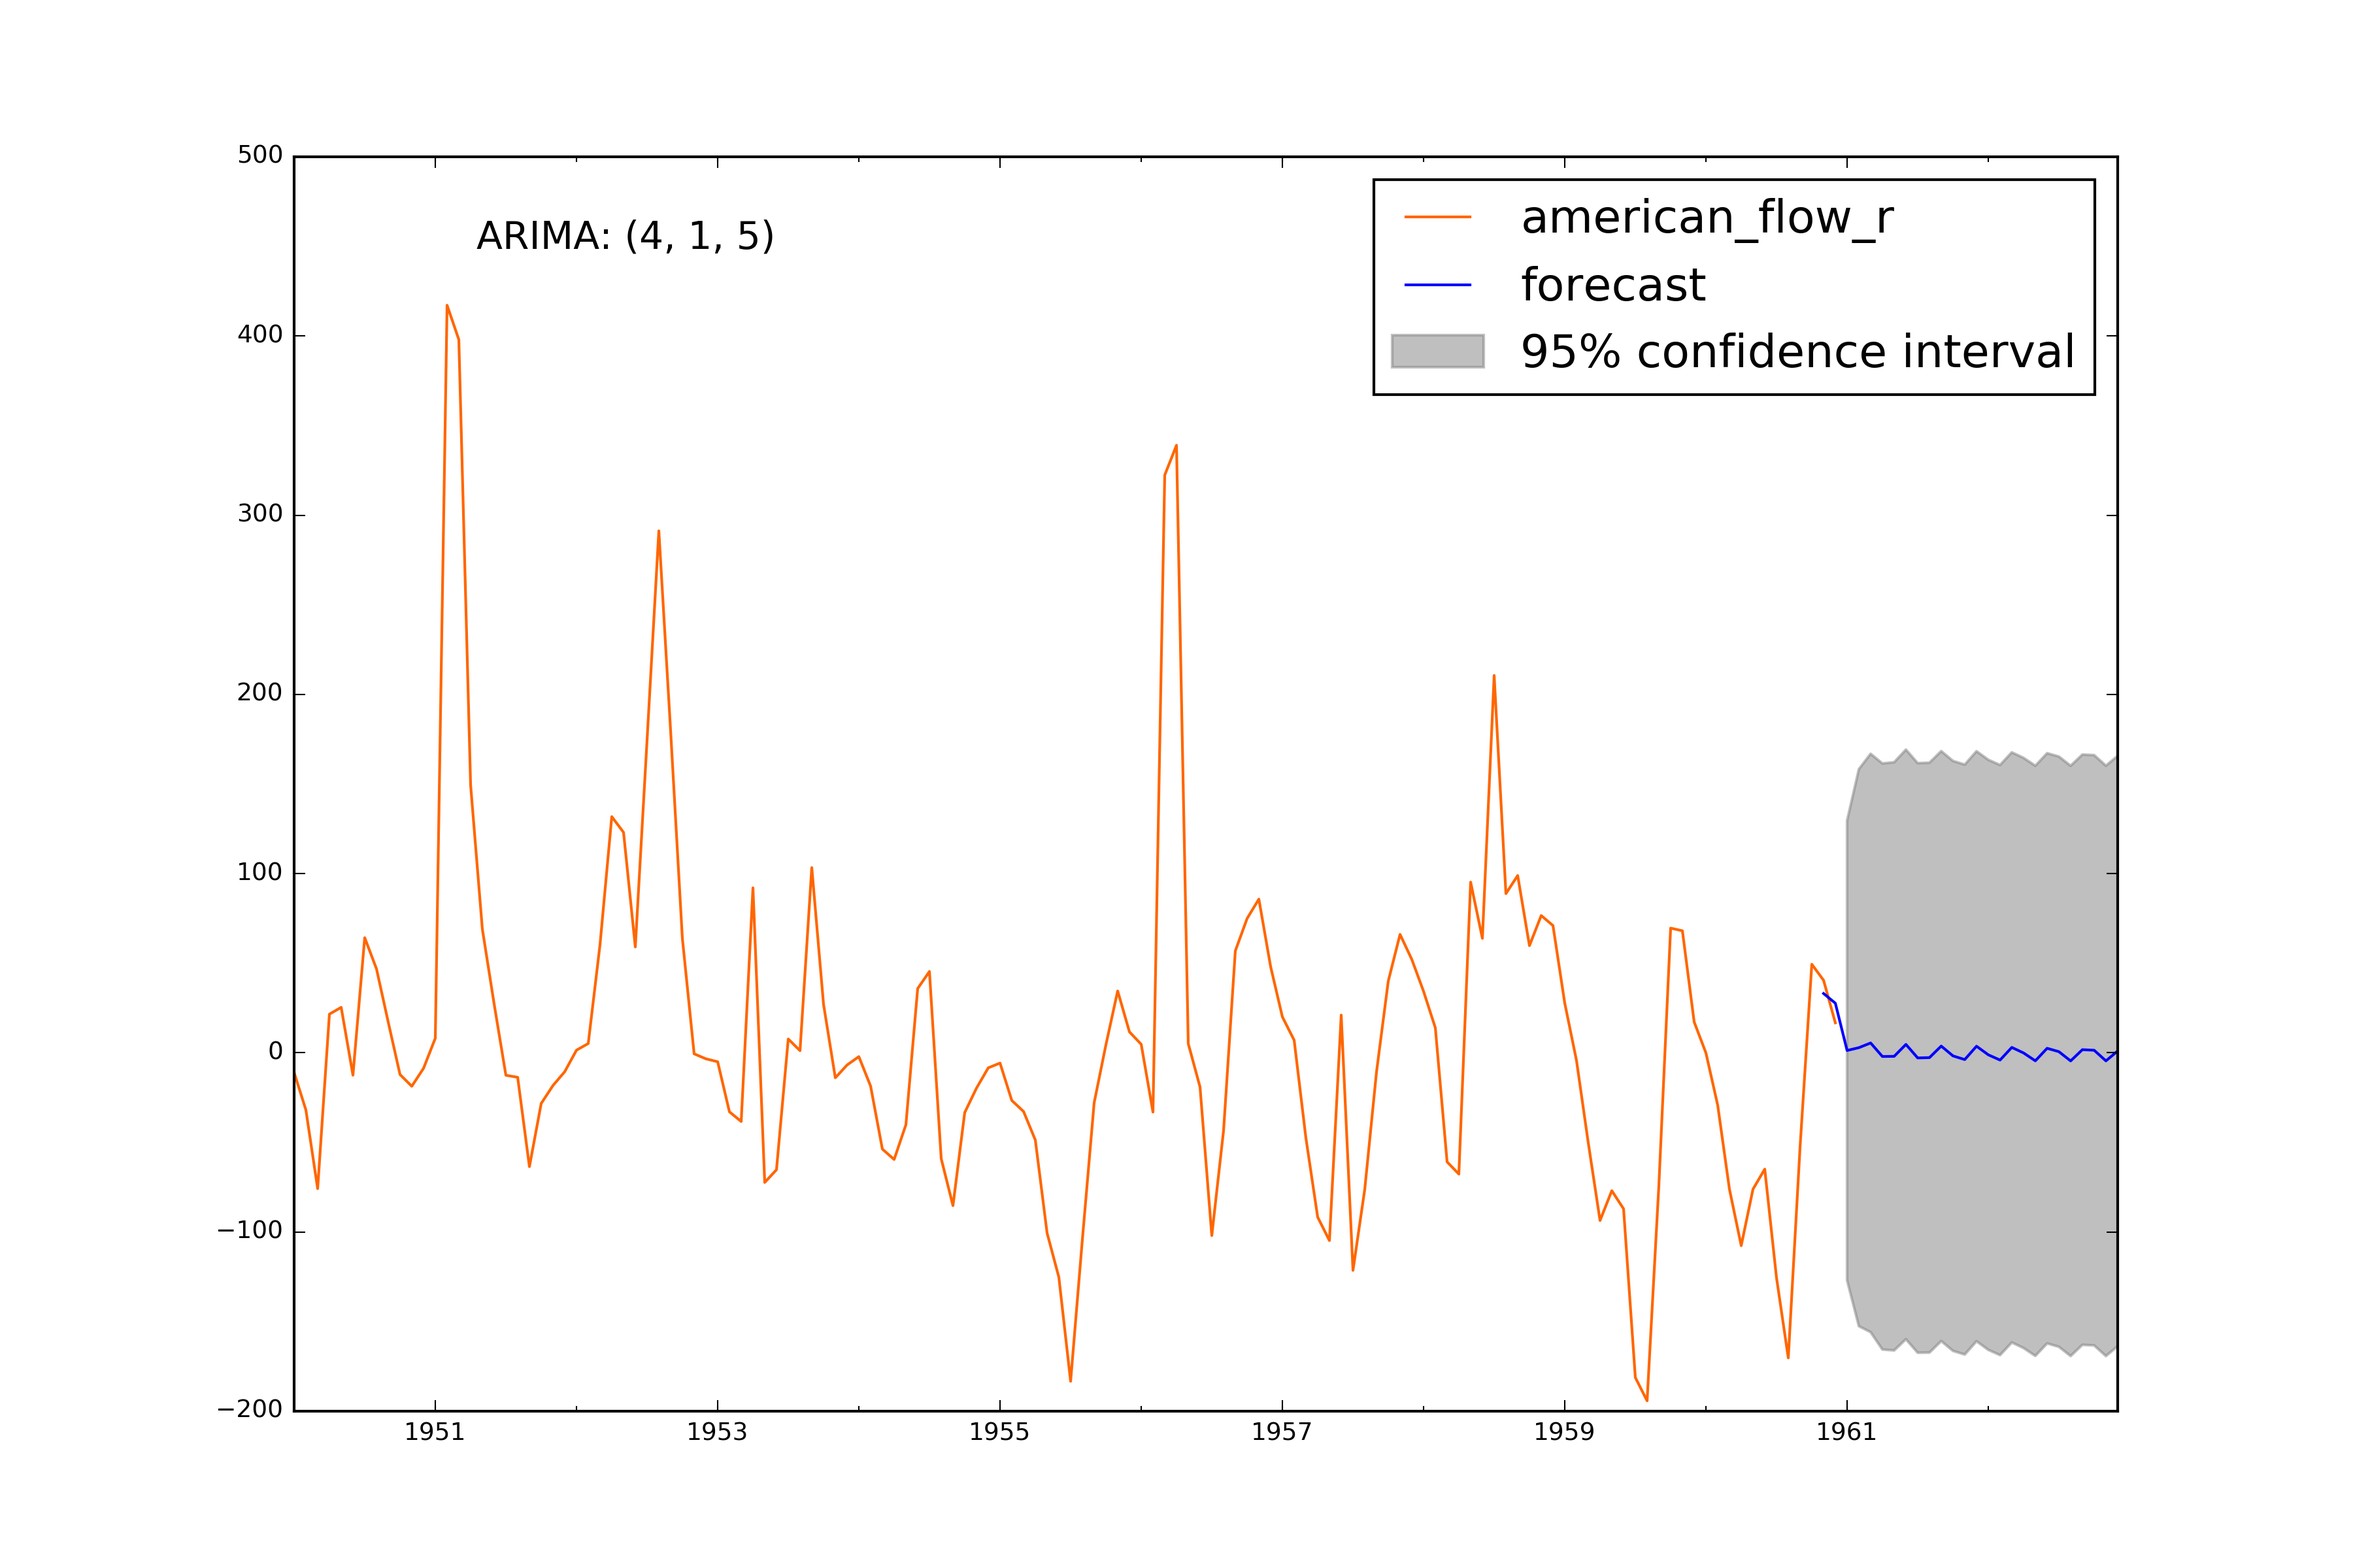
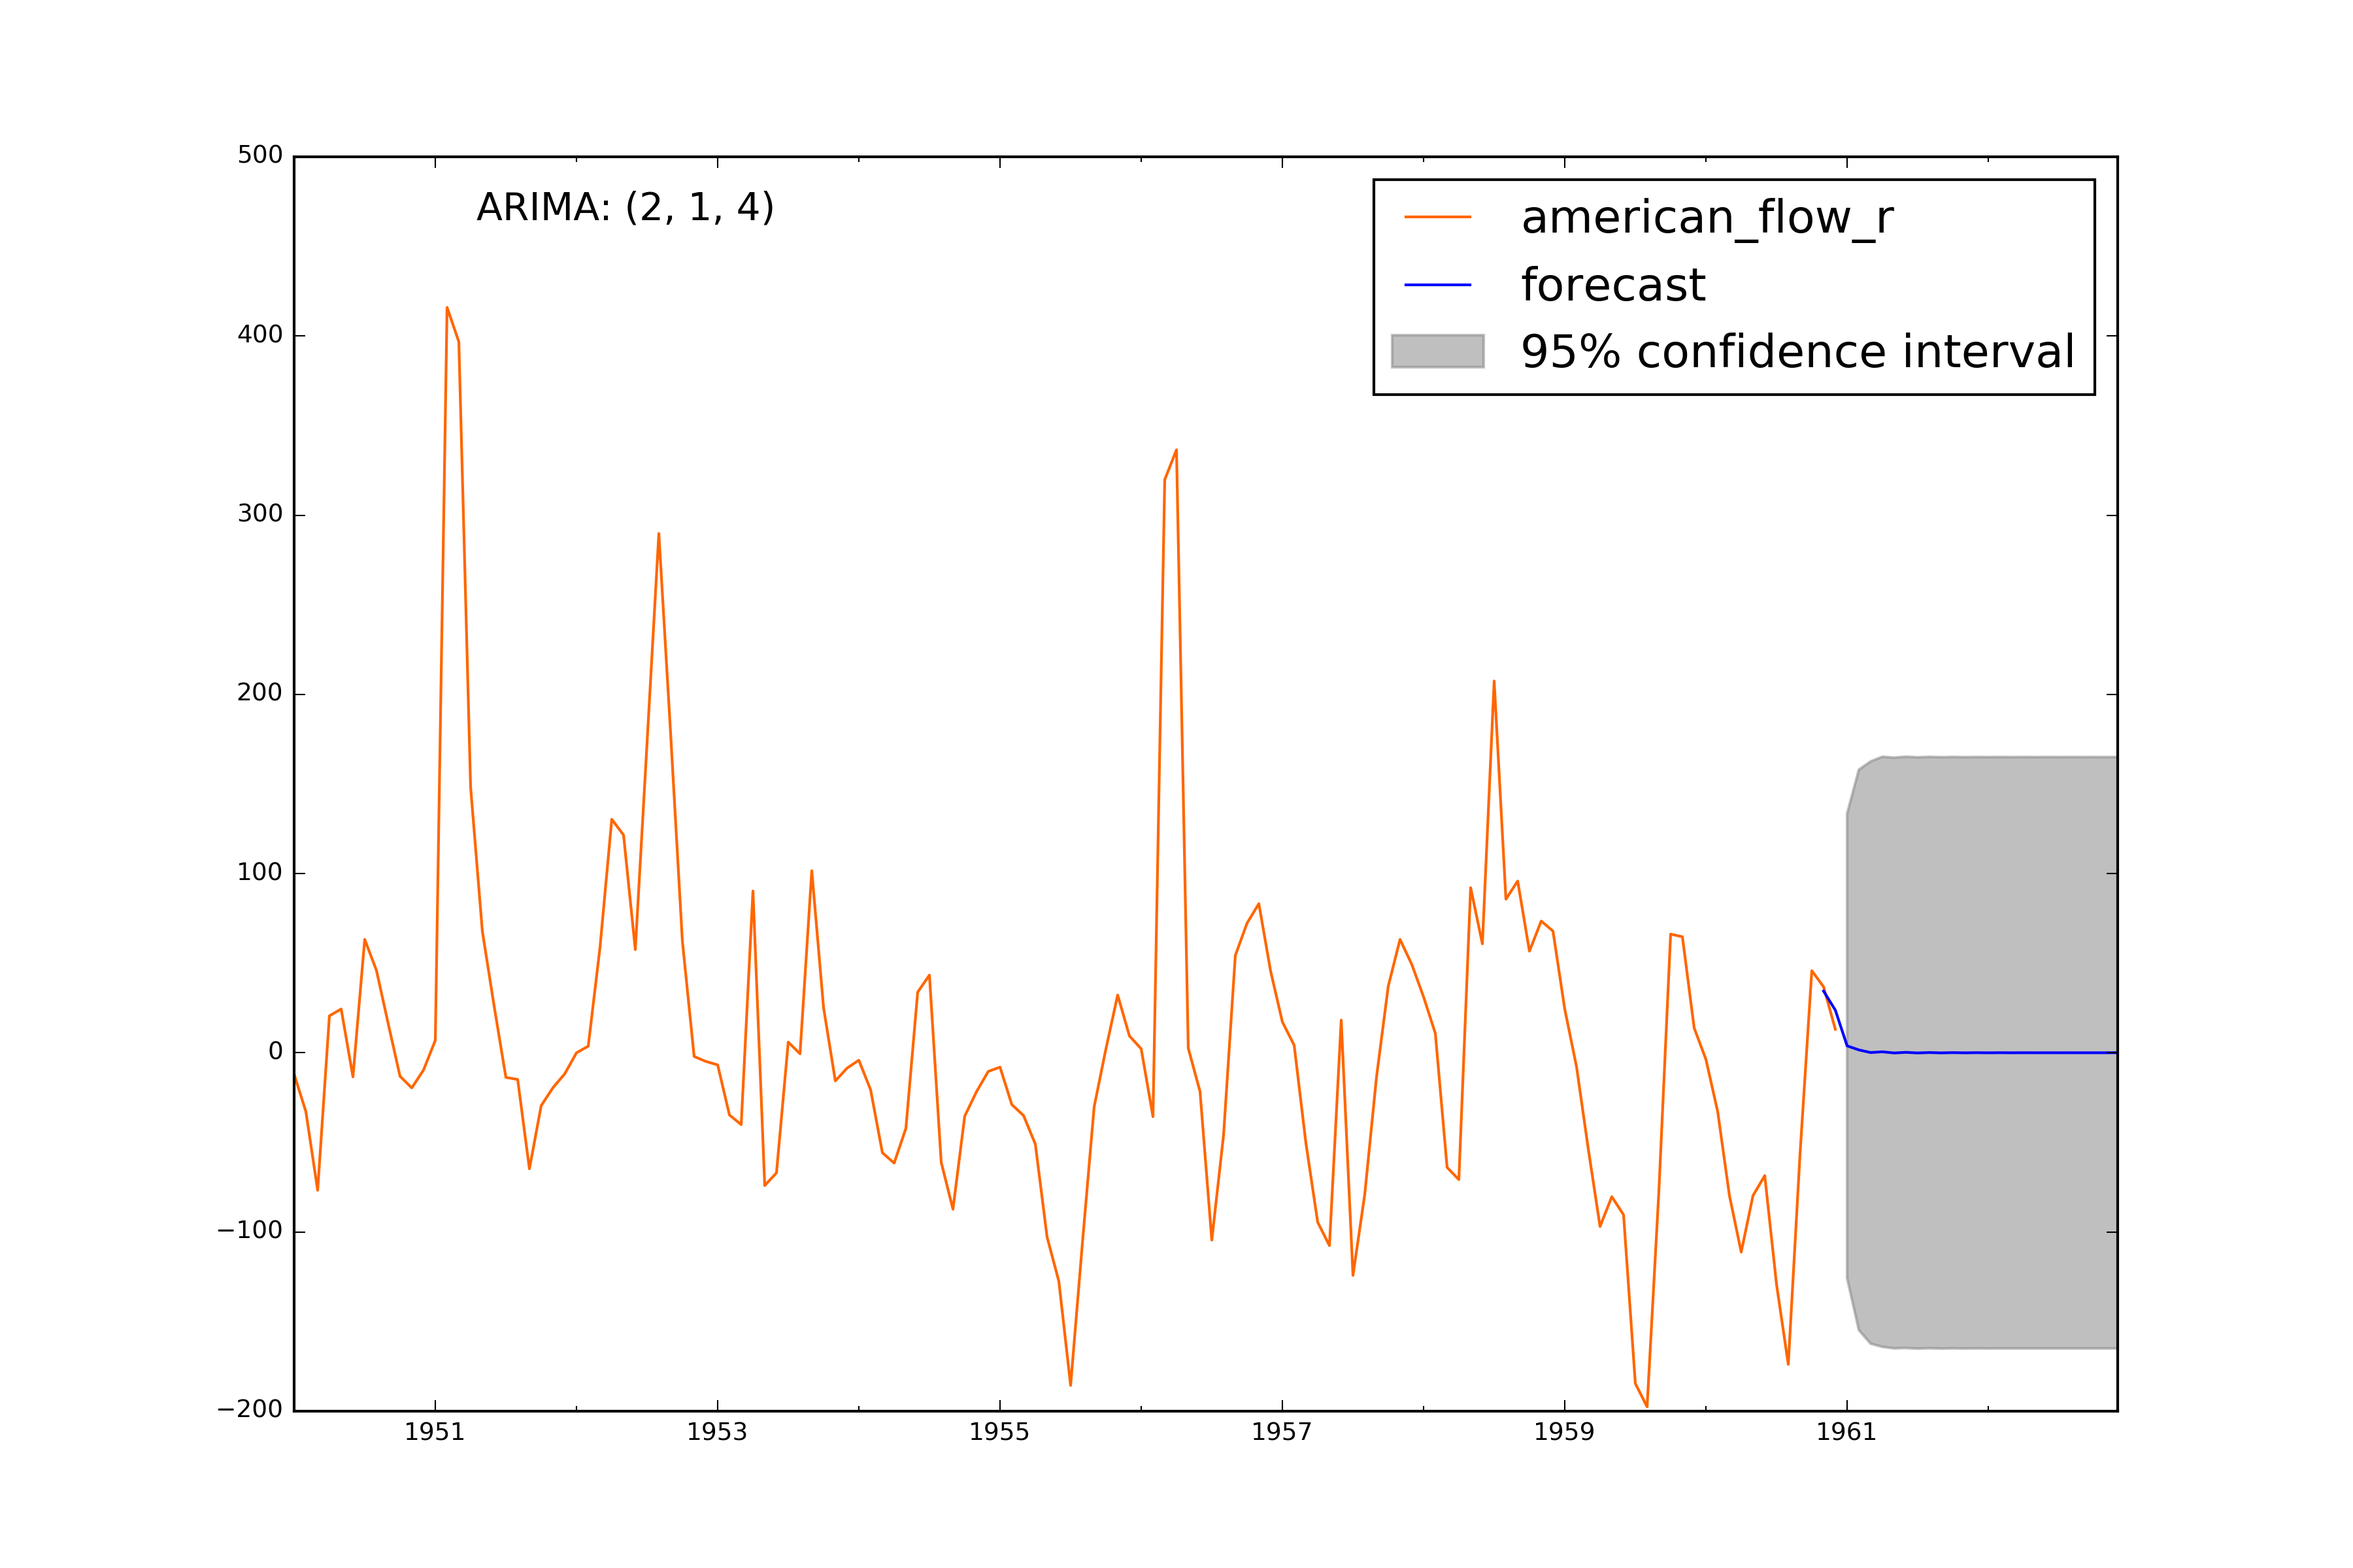
Clean up and latest changes

diff --git a/Codes/Chapter7/ts_arima.py b/Codes/Chapter7/ts_arima.py
@@ -11,6 +11,29 @@ matplotlib.rc('font', size=14)
 # time series tools
 import statsmodels.api as sm
 
+def plot_functions(data, name):
+    '''
+        Method to plot the ACF and PACF functions
+    '''
+    # create the figure
+    fig, ax = plt.subplots(2)
+
+    # plot the functions
+    sm.graphics.tsa.plot_acf(data, lags=18, ax=ax[0])
+    sm.graphics.tsa.plot_pacf(data, lags=18, ax=ax[1])
+
+    # set titles for charts
+    ax[0].set_title(name.split('_')[-1])
+    ax[1].set_title('')
+
+    # set titles for rows
+    ax[0].set_ylabel('ACF')
+    ax[1].set_ylabel('PACF')
+
+    # save the figure
+    plt.savefig(data_folder+'/charts/'+name+'.png', 
+        dpi=300)
+
 def fit_model(data, params, modelType, f, t):
     '''
         Wrapper method to fit and plot the model
@@ -20,17 +43,38 @@ def fit_model(data, params, modelType, f, t):
 
     # fit the model
     model_res = model.fit(maxiter=600, trend='nc', 
-        start_params=[.1] * (params[0] + params[2]), tol=1e06)
+        start_params=[.1] * (params[0]+params[2]), tol=1e06)
+
+    # create figure
+    fig, ax = plt.subplots(1, figsize=(12, 8))
+    
+    e = model.geterrors(model_res.params)
+    ax.plot(e, colors[3])
+
+    chartText = '{0}: ({1}, {2}, {3})'.format(
+        modelType.split('_')[0], params[0], 
+        params[1], params[2])
+
+    # and put it on the chart
+    ax.text(0.1, 0.95, chartText, transform=ax.transAxes)
+
+    # and save the figure
+    plt.savefig(data_folder+'/charts/'+modelType+'_errors.png', 
+        dpi=300)
+
 
     # plot the model
     plot_model(data['1950':], model_res, params, 
         modelType, f, t)
 
     # and save the figure
-    plt.savefig(data_folder + '/charts/' + modelType + '.png', 
+    plt.savefig(data_folder+'/charts/'+modelType+'.png', 
         dpi=300)
 
 def plot_model(data, model, params, modelType, f, t):
+    '''
+        Method to plot the predictions of the model
+    '''
     # create figure
     fig, ax = plt.subplots(1, figsize=(12, 8))
     
@@ -41,10 +85,12 @@ def plot_model(data, model, params, modelType, f, t):
     model.plot_predict(f, t, ax=ax, plot_insample=False)
 
     # define chart text
-    chartText = '{0}: ({1}, {2}, {3})'.format(modelType.split('_')[0], params[0], params[1], params[2])
+    chartText = '{0}: ({1}, {2}, {3})'.format(
+        modelType.split('_')[0], params[0], 
+        params[1], params[2])
 
     # and put it on the chart
-    ax.text(0.1, 0.95, chartText, verticalalignment='top', horizontalalignment='left',transform=ax.transAxes)
+    ax.text(0.1, 0.95, chartText, transform=ax.transAxes)
 
 # folder with data
 data_folder = '../../Data/Chapter7/'
@@ -56,14 +102,33 @@ colors = ['#FF6600', '#000000', '#29407C', '#660000']
 riverFlows = pd.read_csv(data_folder + 'combined_flow_d.csv', 
     index_col=0, parse_dates=[0])
 
+# plot the ACF and PACF functions
+# plot_functions(riverFlows['american_flow_r'], 
+#     'ACF_PACF_American')
+# plot_functions(riverFlows['columbia_flow_r'], 
+#     'ACF_PACF_Columbia')
+
+
 # fit american models
-fit_model(riverFlows['american_flow_r'], (8, 0, 5), 
+fit_model(riverFlows['american_flow_r'], (2, 0, 4), 
     'ARMA_American', '1960-11-30', '1962')
-fit_model(riverFlows['american_flow_r'], (4, 1, 5), 
+fit_model(riverFlows['american_flow_r'], (2, 1, 4), 
     'ARIMA_American', '1960-11-30', '1962')
 
 # fit colum models
-fit_model(riverFlows['columbia_flow_r'], (8, 0, 4), 
+fit_model(riverFlows['columbia_flow_r'], (3, 0, 2), 
     'ARMA_Columbia', '1960-09-30', '1962')
-fit_model(riverFlows['columbia_flow_r'], (4, 1, 5), 
+fit_model(riverFlows['columbia_flow_r'], (3, 1, 2), 
     'ARIMA_Columbia', '1960-09-30', '1962')
+
+# # fit american models
+# fit_model(riverFlows['american_flow_r'], (3, 0, 5), 
+#     'ARMA_American', '1960-11-30', '1962')
+# fit_model(riverFlows['american_flow_r'], (3, 1, 5), 
+#     'ARIMA_American', '1960-11-30', '1962')
+
+# # fit colum models
+# fit_model(riverFlows['columbia_flow_r'], (3, 0, 2), 
+#     'ARMA_Columbia', '1960-09-30', '1962')
+# fit_model(riverFlows['columbia_flow_r'], (3, 1, 2), 
+#     'ARIMA_Columbia', '1960-09-30', '1962')

diff --git a/Codes/Chapter7/ts_seasonalDecomposition.py b/Codes/Chapter7/ts_seasonalDecomposition.py
@@ -23,7 +23,8 @@ riverFlows = pd.read_csv(data_folder + 'combined_flow.csv',
 
 for col in riverFlows.columns:
     # seasonal decomposition of the data
-    sd = sm.tsa.seasonal_decompose(riverFlows[col], model='a', freq=12)
+    sd = sm.tsa.seasonal_decompose(riverFlows[col], 
+        model='a', freq=12)
 
     riverFlows[col + '_resid'] = sd.resid \
         .fillna(np.mean(sd.resid))
@@ -41,14 +42,14 @@ fig, ax = plt.subplots(2, 3, sharex=True, sharey=True)
 fig.set_size_inches(12, 7)
 
 # plot the charts for american
-ax[0, 0].plot(riverFlows['american_flow_resid'], colors[0])
-ax[0, 1].plot(riverFlows['american_flow_trend'], colors[1]) 
-ax[0, 2].plot(riverFlows['american_flow_seas'],  colors[2]) 
+ax[0, 0].plot(riverFlows['american_flow_trend'], colors[0])
+ax[0, 1].plot(riverFlows['american_flow_seas'], colors[1]) 
+ax[0, 2].plot(riverFlows['american_flow_resid'],  colors[2]) 
 
 # plot the charts for columbia
-ax[1, 0].plot(riverFlows['columbia_flow_resid'], colors[0])
-ax[1, 1].plot(riverFlows['columbia_flow_trend'], colors[1]) 
-ax[1, 2].plot(riverFlows['columbia_flow_seas'],  colors[2]) 
+ax[1, 0].plot(riverFlows['columbia_flow_trend'], colors[0])
+ax[1, 1].plot(riverFlows['columbia_flow_seas'], colors[1]) 
+ax[1, 2].plot(riverFlows['columbia_flow_resid'],  colors[2]) 
 
 # set titles for columns
 ax[0, 0].set_title('Residuals')

diff --git a/Codes/Chapter7/test.py b/Codes/Chapter7/test.py
@@ -9,3 +9,12 @@ print(recorded)
 # print(original, recovered)
 
 print( 12 // 3)
+
+import numpy as np
+freq = 12
+filt = np.array([.5] + [1] * (freq - 1) + [.5]) / freq
+
+print(filt)
+
+d = [1,2,3,4,5,6,7,8,9,10] 
+print(d[1::2])
